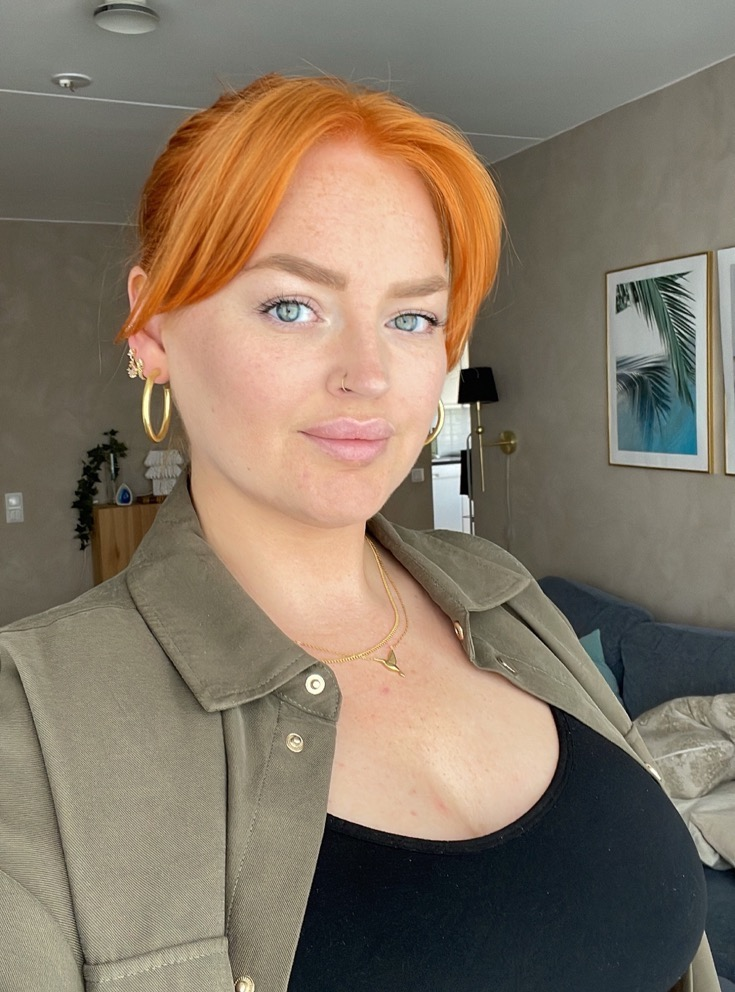
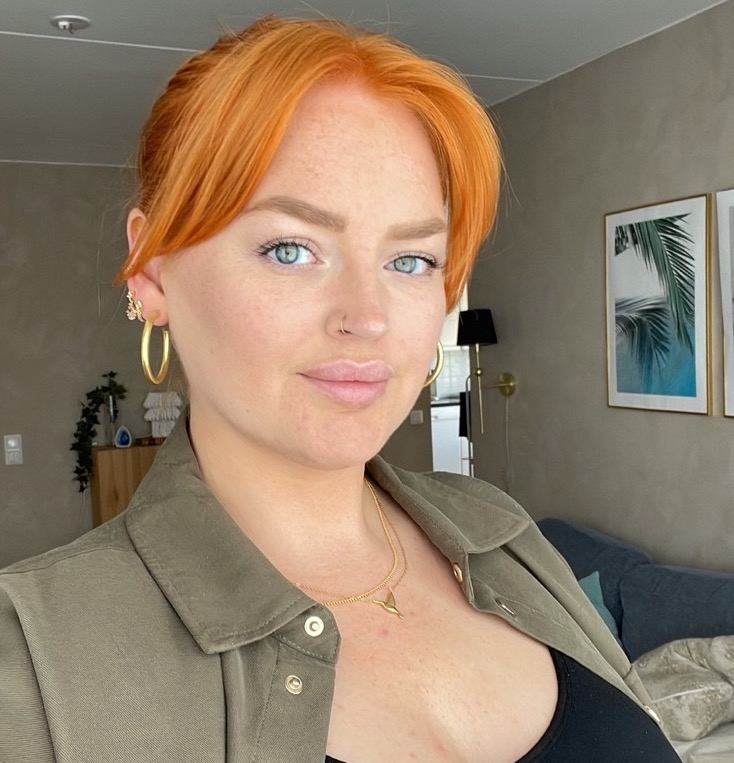
header and about

diff --git a/code/src/components/Header.jsx b/code/src/components/Header.jsx
@@ -4,14 +4,12 @@ import React from 'react';
 
 const Header = () => {
     return (
-        <header className="header">
-            {/* Video goes here */}
-            <video autoPlay loop muted className="header-video">
-                <source src="code.mp4" type="video/mp4" />
-                {/* Add additional source elements for different video formats */}
-            </video>
-            {/* Other content goes here */}
-        </header>
+        <div className="header">
+            <h2>Hi, I'm Lisa Dahlkar</h2>
+            <h1>Front End Developer</h1>
+            <img className="img-me" src="Lisa.JPG" alt="A picture of Lisa Dahlkar" />
+            <p>hejhej text lalalal </p>
+        </div>
     );
 };
 

diff --git a/code/src/index.css b/code/src/index.css
@@ -19,6 +19,7 @@ a {
   color: #646cff;
   text-decoration: inherit;
 }
+
 a:hover {
   color: #535bf2;
 }
@@ -47,22 +48,41 @@ button {
   cursor: pointer;
   transition: border-color 0.25s;
 }
+
 button:hover {
   border-color: #646cff;
 }
+
 button:focus,
 button:focus-visible {
   outline: 4px auto -webkit-focus-ring-color;
 }
+
+
+header {}
+
+.img-me {
+  width: 30%;
+  border-radius: 50%;
+  display: flex;
+  flex-direction: left;
+}
+
+.about {
+  background-color: #747bff;
+}
+
 
 @media (prefers-color-scheme: light) {
   :root {
     color: #213547;
     background-color: #ffffff;
   }
+
   a:hover {
     color: #747bff;
   }
+
   button {
     background-color: #f9f9f9;
   }

diff --git a/code/src/App.jsx b/code/src/App.jsx
@@ -1,9 +1,14 @@
 import './App.css'
+import Header from './components/Header.jsx';
+import About from './components/About.jsx';
 
 function App() {
 
   return (
-    <Header />
+    <div>
+      <Header />
+      <About />
+    </div>
   )
 }
 

diff --git a/code/src/components/About.jsx b/code/src/components/About.jsx
@@ -1,0 +1,11 @@
+import React from "react";
+
+const About = () => {
+    return (
+        <div className="about">
+            <h1>hej</h1>
+        </div>
+    );
+};
+
+export default About; 
